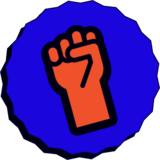
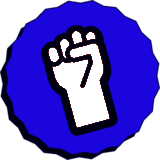
add clients url

Changed region(s): [[0.2812, 0.1875, 0.6875, 0.8125]]

diff --git a/_includes/clients.html b/_includes/clients.html
@@ -21,6 +21,7 @@ We collaborate with <span class="destecat--negatiu">public institutions</span>,
         {% for client in clients %}
         {% if client.link %}<a href="{{ client.link }}" target="_blank" rel="noopener" style="display: contents">{% endif %}
         <img
+          {% if client.color %}class="clients__logo--color"{% endif %}
           src="{{ client.image }}"
           title="{{ client.name }}"
           alt="{{ client.alt }}"

diff --git a/assets/scss/partials/_clients.scss b/assets/scss/partials/_clients.scss
@@ -81,6 +81,11 @@
 				aspect-ratio: 3/2;
 				-o-object-fit: contain;
 				object-fit: contain;
+
+				// Logos en color: se pasan a negro
+				&.clients__logo--color {
+					filter: grayscale(1) brightness(0.55) contrast(20);
+				}
 			}
 			@media (max-width: $bp-mobile-big) {
 				flex-direction: row;

diff --git a/css/styles.css b/css/styles.css
@@ -1066,6 +1066,9 @@ a:active {
   -o-object-fit: contain;
   object-fit: contain;
 }
+#clients .clients__logos__container img.clients__logo--color {
+  filter: grayscale(1) brightness(0.55) contrast(20);
+}
 @media (max-width: 812px) {
   #clients .clients__logos__container {
     flex-direction: row;

diff --git a/_clients/som-mobilitat.md b/_clients/som-mobilitat.md
@@ -1,6 +1,6 @@
 ---
 name: "Som Mobilitat"
-image: "/assets/img/clients/logo_sommobilitat.jpg"
+image: "/assets/img/clients/logo_sommobilitat.png"
 alt: "Som Mobilitat"
 link: https://sommobilitat.coop/
 order: 8

diff --git a/_clients/nyc.md b/_clients/nyc.md
@@ -1,6 +1,6 @@
 ---
 name: New York City Council
-image: "/assets/img/clients/cec_nyc.png"
+image: "/assets/img/clients/CEC_logo_horizontal.png"
 alt: Nyc Logo
 link: https://www.participate.nyc.gov
 order: 2

diff --git a/_clients/clean-clothes.md b/_clients/clean-clothes.md
@@ -4,4 +4,5 @@ image: "/assets/img/clients/clean_clothes.png"
 alt: "Clean Clothes Manifesto"
 link: https://manifesto.cleanclothes.org/
 order: 22
+color: true
 ---

diff --git a/_clients/komunikatik.md b/_clients/komunikatik.md
@@ -4,4 +4,5 @@ image: "/assets/img/clients/logo-komunikatik.png"
 alt: "Komunikatik"
 link: https://komunikatik.com/es/category/decidim/
 order: 28
+color: true
 ---

diff --git a/_clients/pnud-peru.md b/_clients/pnud-peru.md
@@ -2,6 +2,6 @@
 name: "PNUD Perú"
 image: "/assets/img/clients/logo_peru.png"
 alt: "PNUD Perú"
-link: 
+link: https://redpublica.com.pe/
 order: 24
 ---

diff --git a/_clients/stadt-zurich.md b/_clients/stadt-zurich.md
@@ -4,4 +4,5 @@ image: "/assets/img/clients/statd_zurich.png"
 alt: "Stadt Zürich"
 link: https://mitwirken.stadt-zuerich.ch/
 order: 4
+color: true
 ---

diff --git a/_clients/barcelona-en-comu.md b/_clients/barcelona-en-comu.md
@@ -4,4 +4,5 @@ image: "/assets/img/clients/bcomu.png"
 alt: "Barcelona en Comú"
 link: https://barcelonaencomu.cat/es/
 order: 13
+color: true
 ---

diff --git a/_clients/navarra.md b/_clients/navarra.md
@@ -4,4 +4,5 @@ image: "/assets/img/clients/navarra.png"
 alt: "Gobierno de Navarra"
 link: https://participa.navarra.es
 order: 16
+color: true
 ---

diff --git a/_clients/catalunya-en-comu.md b/_clients/catalunya-en-comu.md
@@ -4,4 +4,5 @@ image: "/assets/img/clients/cat_en_comu.png"
 alt: "Catalunya en Comú"
 link: https://comuns.cat/
 order: 14
+color: true
 ---
